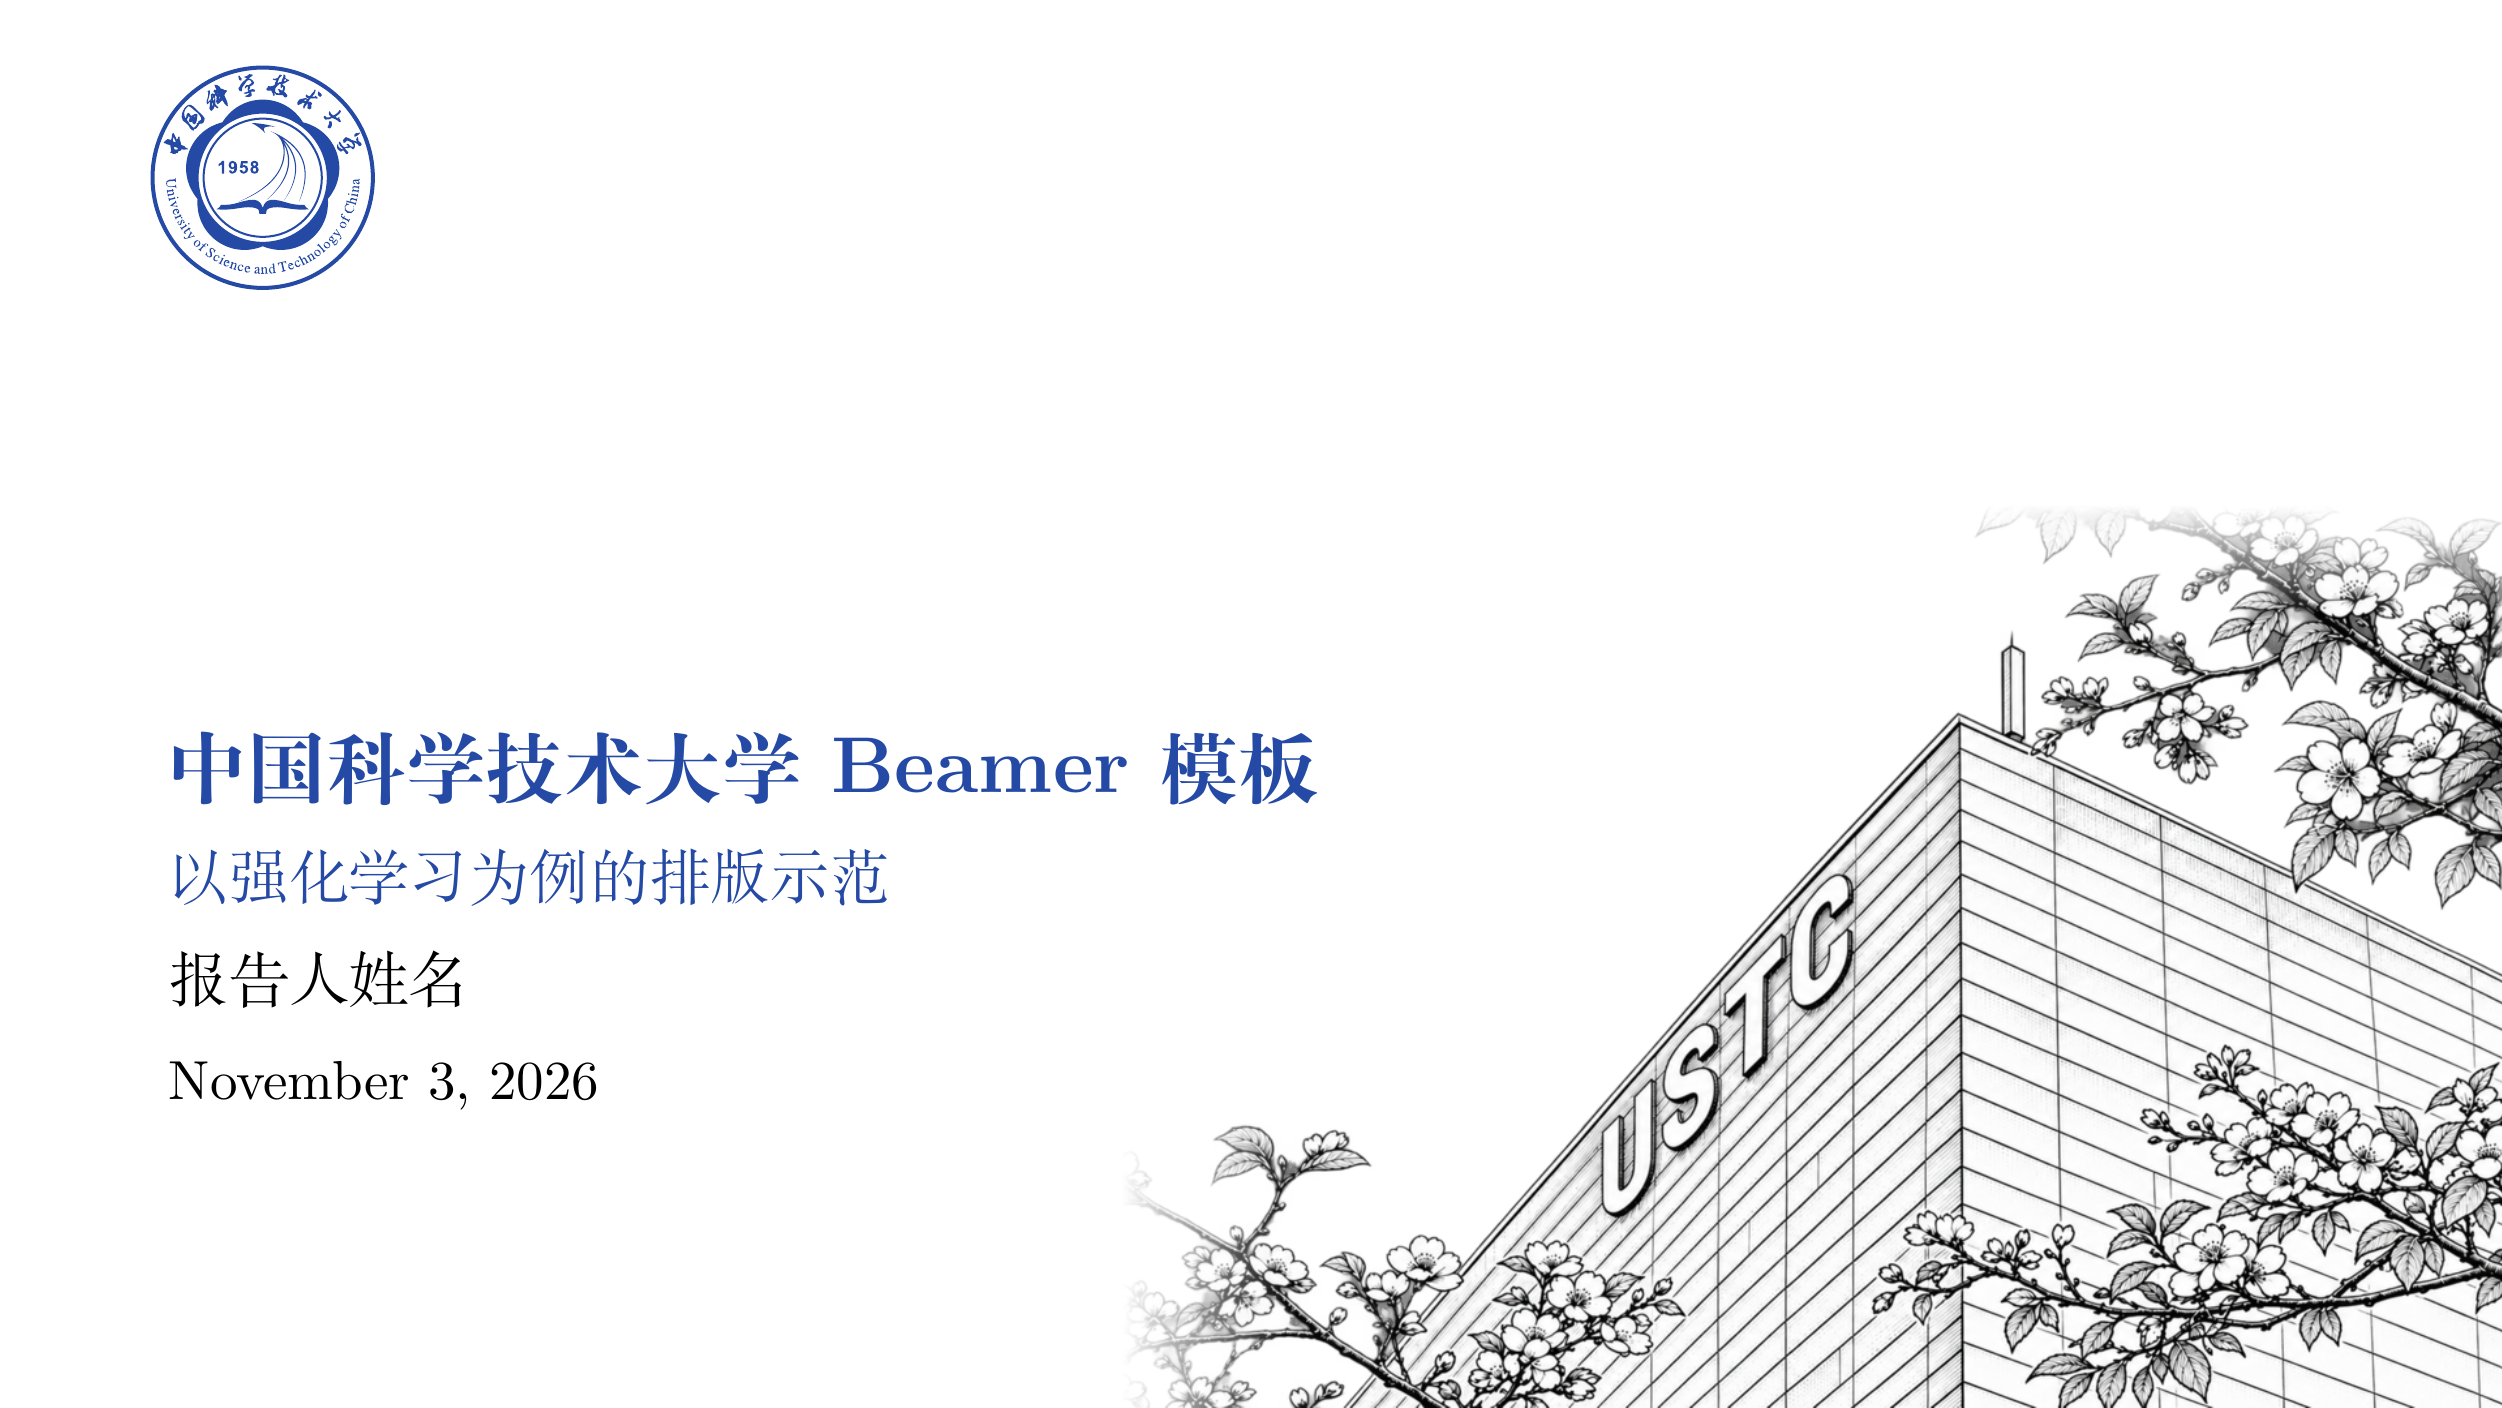
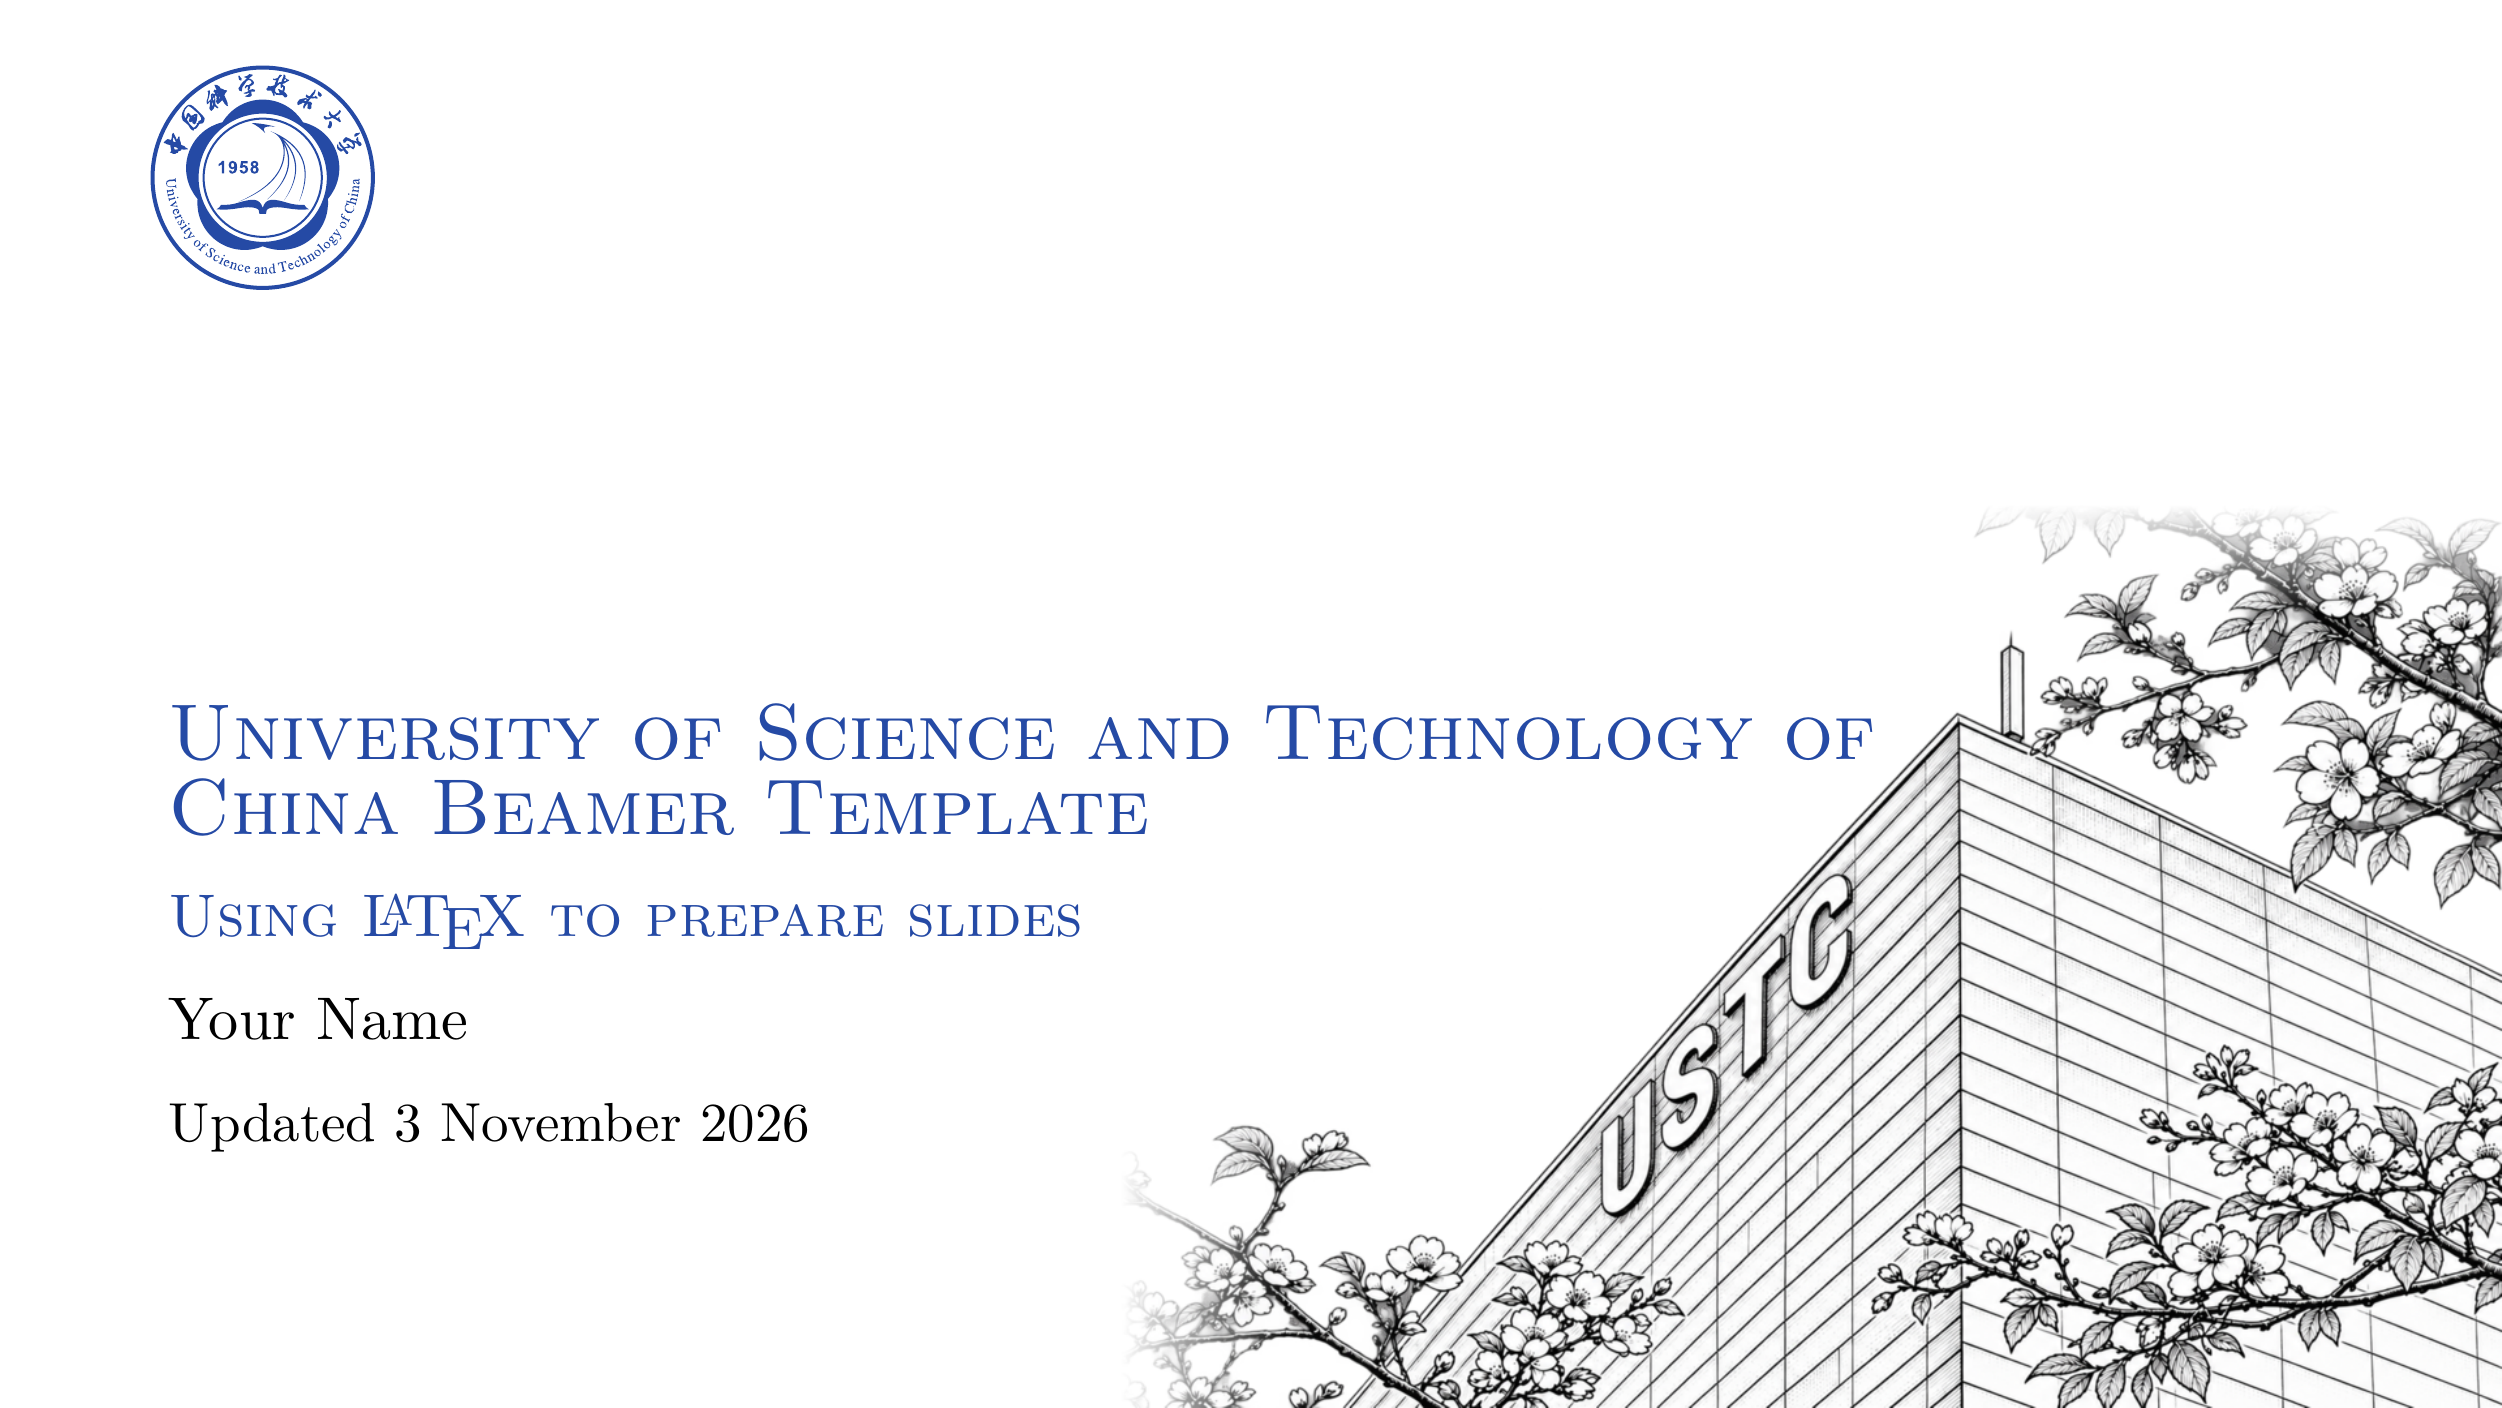
Align USTC contribution with existing example and gallery

diff --git a/pre.tex b/pre.tex
@@ -27,18 +27,19 @@
 % [scnu]   % 华南师范大学 (SCNU)
 % [bjut]   % 北京工业大学（BJUT）
 % [zuel]   % 中南财经政法大学 (ZUEL)
+% [ustc]   % 中国科学技术大学 (USTC)
 % 
 % [en]     % English, pls compile with pdfLaTeX 英语，请使用 pdfLaTeX 编译
 % [zh]     % Chinese, automatically loads xeCJK and Chinese fonts, pls compile with XeLaTeX 中文，自动加载 xeCJK 包和中文字体，请使用 XeLaTeX 编译
 %
 % --- Example Usage ---
-\usepackage[cityu,en]{collegebeamer}
+\usepackage[ustc,en]{collegebeamer}
 
 % metadata
-\title{Zhongnan University of Economics and Law Beamer Template}
+\title{University of Science and Technology of China Beamer Template}
 \subtitle{Using \LaTeX\ to prepare slides}
-\author{yinshisama}
-\date{Updated 29 June 2026}
+\author{Your Name}
+\date{Updated 3 November 2026}
 
 % document body
 \begin{document}
@@ -189,7 +190,7 @@
         \item ... and not so good ones:
         \begin{itemize}
             \item {\texttt{Never use monospace for normal text}}
-            \item {\frakfamily Gothic, calligraphic or weird fonts: should always: be
+            \item {Gothic, calligraphic or weird fonts: should always: be
                 avoided}
         \end{itemize}
     \end{itemize}

diff --git a/README.md b/README.md
@@ -10,7 +10,6 @@ Use the value in the **Option** column when configuring `collegebeamer`. Communi
 
 | College or institute | Option | Contributor | Preview |
 |:---|:---:|:---:|:---:|
-| **USTC — University of Science and Technology of China**<br>中国科学技术大学 | `ustc` | [Pre-cici](https://github.com/Pre-cici) | <img src="/gallery/USTC.png?raw=true" alt="USTC template preview" width="500"> |
 | **PolyU — The Hong Kong Polytechnic University**<br>香港理工大学<br>[Open in Overleaf](https://www.overleaf.com/latex/templates/the-honk-kong-polytechnic-university-polyu-beamer-presentation-theme/vywngqprjwrq) | `polyu` | [liu-qilong](https://github.com/liu-qilong) | <img src="/gallery/PolyU.png?raw=true" alt="PolyU template preview" width="500"> |
 | **THU — Tsinghua University**<br>清华大学 | `thu` | [Ziyi Chen](https://github.com/chenziyiTHU) | <img src="/gallery/THU.png?raw=true" alt="THU template preview" width="500"> |
 | **CityUHK — City University of Hong Kong**<br>香港城市大学 | `cityu` | [Li Yanru](https://github.com/UrnayIl) | <img src="/gallery/CityUHK.png?raw=true" alt="CityUHK template preview" width="500"> |
@@ -36,6 +35,7 @@ Use the value in the **Option** column when configuring `collegebeamer`. Communi
 | **ZAFU — Zhejiang A&F University**<br>浙江农林大学<br>[Open in Overleaf](https://www.overleaf.com/latex/templates/zafu-beamer-theme-beta/rcxzphbhnddf) | `zafu` | [ke1ewang](https://github.com/ke1ewang) | <img src="/gallery/ZAFU.png?raw=true" alt="ZAFU template preview" width="500"> |
 | **DGUT — Dongguan University of Technology**<br>东莞理工学院 | `dgut` | [Penn Lam](https://github.com/Penn-Lam) | <img src="/gallery/DGUT.png?raw=true" alt="DGUT template preview" width="500"> |
 | **SAES — Shenzhen Academy of Environmental Sciences**<br>深圳环境科学院<br>[Open in Overleaf](https://www.overleaf.com/latex/templates/shen-zhen-huan-jing-ke-xue-yuan-saes-beamer-zhu-ti/gqfgpdwcrcpt) | `saes` | [liu-qilong](https://github.com/liu-qilong) | <img src="/gallery/SAES.png?raw=true" alt="SAES template preview" width="500"> |
+| **USTC — University of Science and Technology of China**<br>中国科学技术大学 | `ustc` | [Pre-cici](https://github.com/Pre-cici) | <img src="/gallery/USTC.png?raw=true" alt="USTC template preview" width="500"> |
 
 Some early themes are also available on Overleaf through the links above. Overleaf no longer accepts institution-specific templates from unofficial accounts, so newer community themes are distributed through this repository.
 
@@ -56,8 +56,6 @@ XeLaTeX works with both supported languages and is required for Chinese. English
 ```bash
 latexmk -pdf -interaction=nonstopmode pre.tex
 ```
-
-To try the USTC theme in Chinese, run `latexmk -xelatex -interaction=nonstopmode -halt-on-error ustc-demo.tex` from the repository root. The example uses `\usepackage[ustc,zh]{collegebeamer}`; use `ustc,en` for English. The USTC logos and title artwork are in `src/USTC/`.
 
 ### Select an institution and language
 
